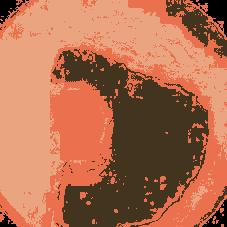
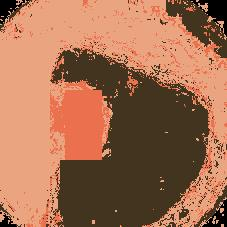
last version of SVM polyp images - fix image 28

diff --git a/SVM_classification.py b/SVM_classification.py
@@ -376,42 +376,43 @@ import os
 #
 # supervised_10 = supervised
 # imageio.imwrite('./images/10_SVM.jpg',palette[supervised])
-# #11----------------------------------------------------------------------------------------------
-# classes = {'wall': 0, 'polyp': 1, 'dirt': 2, 'dark': 3, 'hole': 4}
-# n_classes = len(classes)
-# palette = np.uint8([[234, 164, 128], [234, 112, 78], [234, 207, 79], [0, 0, 0], [67,52,31]])
-#
-# img = io.imread('images/11.jpg')
-# img2 = img
-# rows, cols, bands = img.shape
-#
-#
-# X = img.reshape(rows*cols, bands)
-# kmeans = KMeans(n_clusters=n_classes, random_state=0).fit(X)
-#
-# supervised = n_classes*np.ones(shape=(rows, cols), dtype=np.int)
-# supervised[40:190, 0:50] = classes['wall']
-# supervised[90:160, 60:100] = classes['polyp']
-# #supervised[110:125, 148:164] = classes['dirt']
-# supervised[100:175, 120:165] = classes['hole']
-# supervised[0:10, 0:10] = classes['dark']
-#
-# y = supervised.ravel()
-# train = np.flatnonzero(supervised < n_classes)
-# test = np.flatnonzero(supervised == n_classes)
-#
-# clf = SVC()
-# clf.fit(X[train], y[train])
-# y[test] = clf.predict(X[test])
-# supervised = y.reshape(rows, cols)
-# #io.imshow(palette[supervised])
-# plt.imshow(img2)
-# plt.show()
-# plt.imshow(palette[supervised], cmap=plt.cm.binary)
-# plt.show()
-#
-# supervised_11 = supervised
-# imageio.imwrite('./images/11_SVM.jpg',palette[supervised])
+#11----------------------------------------------------------------------------------------------
+classes = {'wall': 0, 'polyp': 1, 'dirt': 2, 'dark': 3, 'hole': 4}
+n_classes = len(classes)
+palette = np.uint8([[234, 164, 128], [234, 112, 78], [234, 207, 79], [0, 0, 0], [67,52,31]])
+
+img = io.imread('images/11.jpg')
+img2 = img
+rows, cols, bands = img.shape
+
+
+X = img.reshape(rows*cols, bands)
+kmeans = KMeans(n_clusters=n_classes, random_state=0).fit(X)
+
+supervised = n_classes*np.ones(shape=(rows, cols), dtype=np.int)
+supervised[40:190, 0:50] = classes['wall']
+supervised[90:160, 65:102] = classes['polyp']
+#supervised[110:125, 148:164] = classes['dirt']
+supervised[100:175, 120:165] = classes['hole']
+supervised[160:210, 60:150] = classes['hole']
+supervised[0:10, 0:10] = classes['dark']
+
+y = supervised.ravel()
+train = np.flatnonzero(supervised < n_classes)
+test = np.flatnonzero(supervised == n_classes)
+
+clf = SVC()
+clf.fit(X[train], y[train])
+y[test] = clf.predict(X[test])
+supervised = y.reshape(rows, cols)
+#io.imshow(palette[supervised])
+plt.imshow(img2)
+plt.show()
+plt.imshow(palette[supervised])
+plt.show()
+
+supervised_11 = supervised
+imageio.imwrite('./images/11_SVM.jpg',palette[supervised])
 # #12----------------------------------------------------------------------------------------------
 # classes = {'wall': 0, 'polyp': 1, 'dirt': 2, 'dark': 3, 'hole': 4}
 # n_classes = len(classes)
@@ -1018,44 +1019,6 @@ import os
 #
 # supervised_27 = supervised
 # imageio.imwrite('./images/27_SVM.jpg',palette[supervised])
-#28---------------------------------------------------------------------------------------------
-classes = {'wall': 0, 'polyp': 1, 'dirt': 2, 'dark': 3, 'hole': 4}
-n_classes = len(classes)
-palette = np.uint8([[234, 164, 128], [234, 112, 78], [234, 207, 79], [0, 0, 0], [67,52,31]])
-
-img = io.imread('images/28.jpg')
-img2 = img
-rows, cols, bands = img.shape
-
-
-X = img.reshape(rows*cols, bands)
-kmeans = KMeans(n_clusters=n_classes, random_state=0).fit(X)
-
-supervised = n_classes*np.ones(shape=(rows, cols), dtype=np.int)
-supervised[40:140, 0:200] = classes['wall']
-supervised[150:210, 0:140] = classes['wall']
-supervised[5:50, 20:200] = classes['wall']
-supervised[150:215, 145:225] = classes['polyp']
-#supervised[90:110, 30:60] = classes['dirt']
-#supervised[100:190, 0:25] = classes['hole']
-supervised[0:14, 0:15] = classes['dark']
-
-y = supervised.ravel()
-train = np.flatnonzero(supervised < n_classes)
-test = np.flatnonzero(supervised == n_classes)
-
-clf = SVC()
-clf.fit(X[train], y[train])
-y[test] = clf.predict(X[test])
-supervised = y.reshape(rows, cols)
-#io.imshow(palette[supervised])
-plt.imshow(img2)
-plt.show()
-plt.imshow(palette[supervised], cmap=plt.cm.binary)
-plt.show()
-
-supervised_28 = supervised
-imageio.imwrite('./images/28_SVM.jpg',palette[supervised])
 # #29---------------------------------------------------------------------------------------------
 # classes = {'wall': 0, 'polyp': 1, 'dirt': 2, 'dark': 3, 'hole': 4}
 # n_classes = len(classes)
@@ -1882,6 +1845,6 @@ imageio.imwrite('./images/28_SVM.jpg',palette[supervised])
 # supervised_50 = supervised
 # imageio.imwrite('./images/50_SVM.jpg',palette[supervised])
 #
- os.system("ground_truth_generator.py")
+#os.system("ground_truth_generator.py")
 
 print("end")
